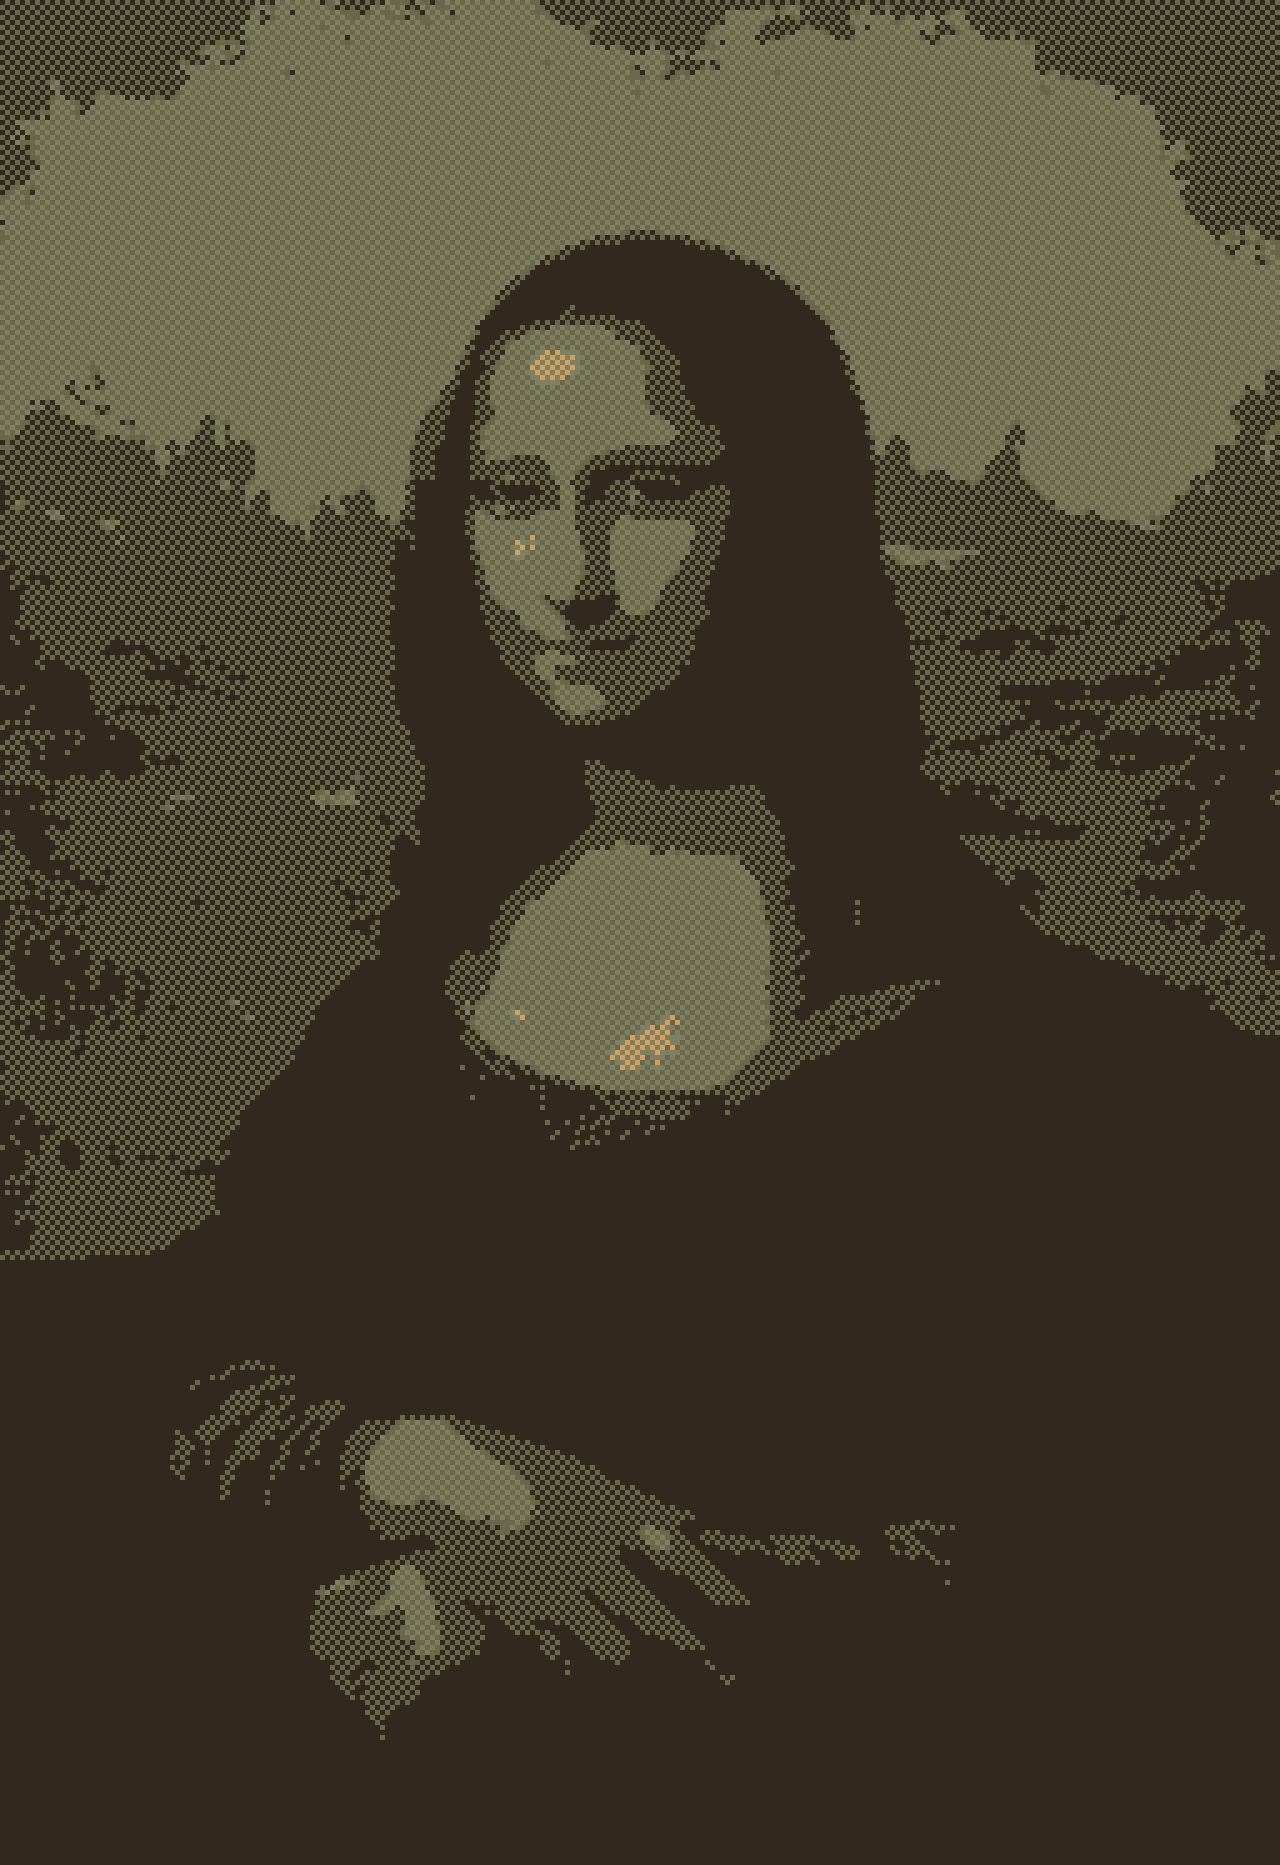
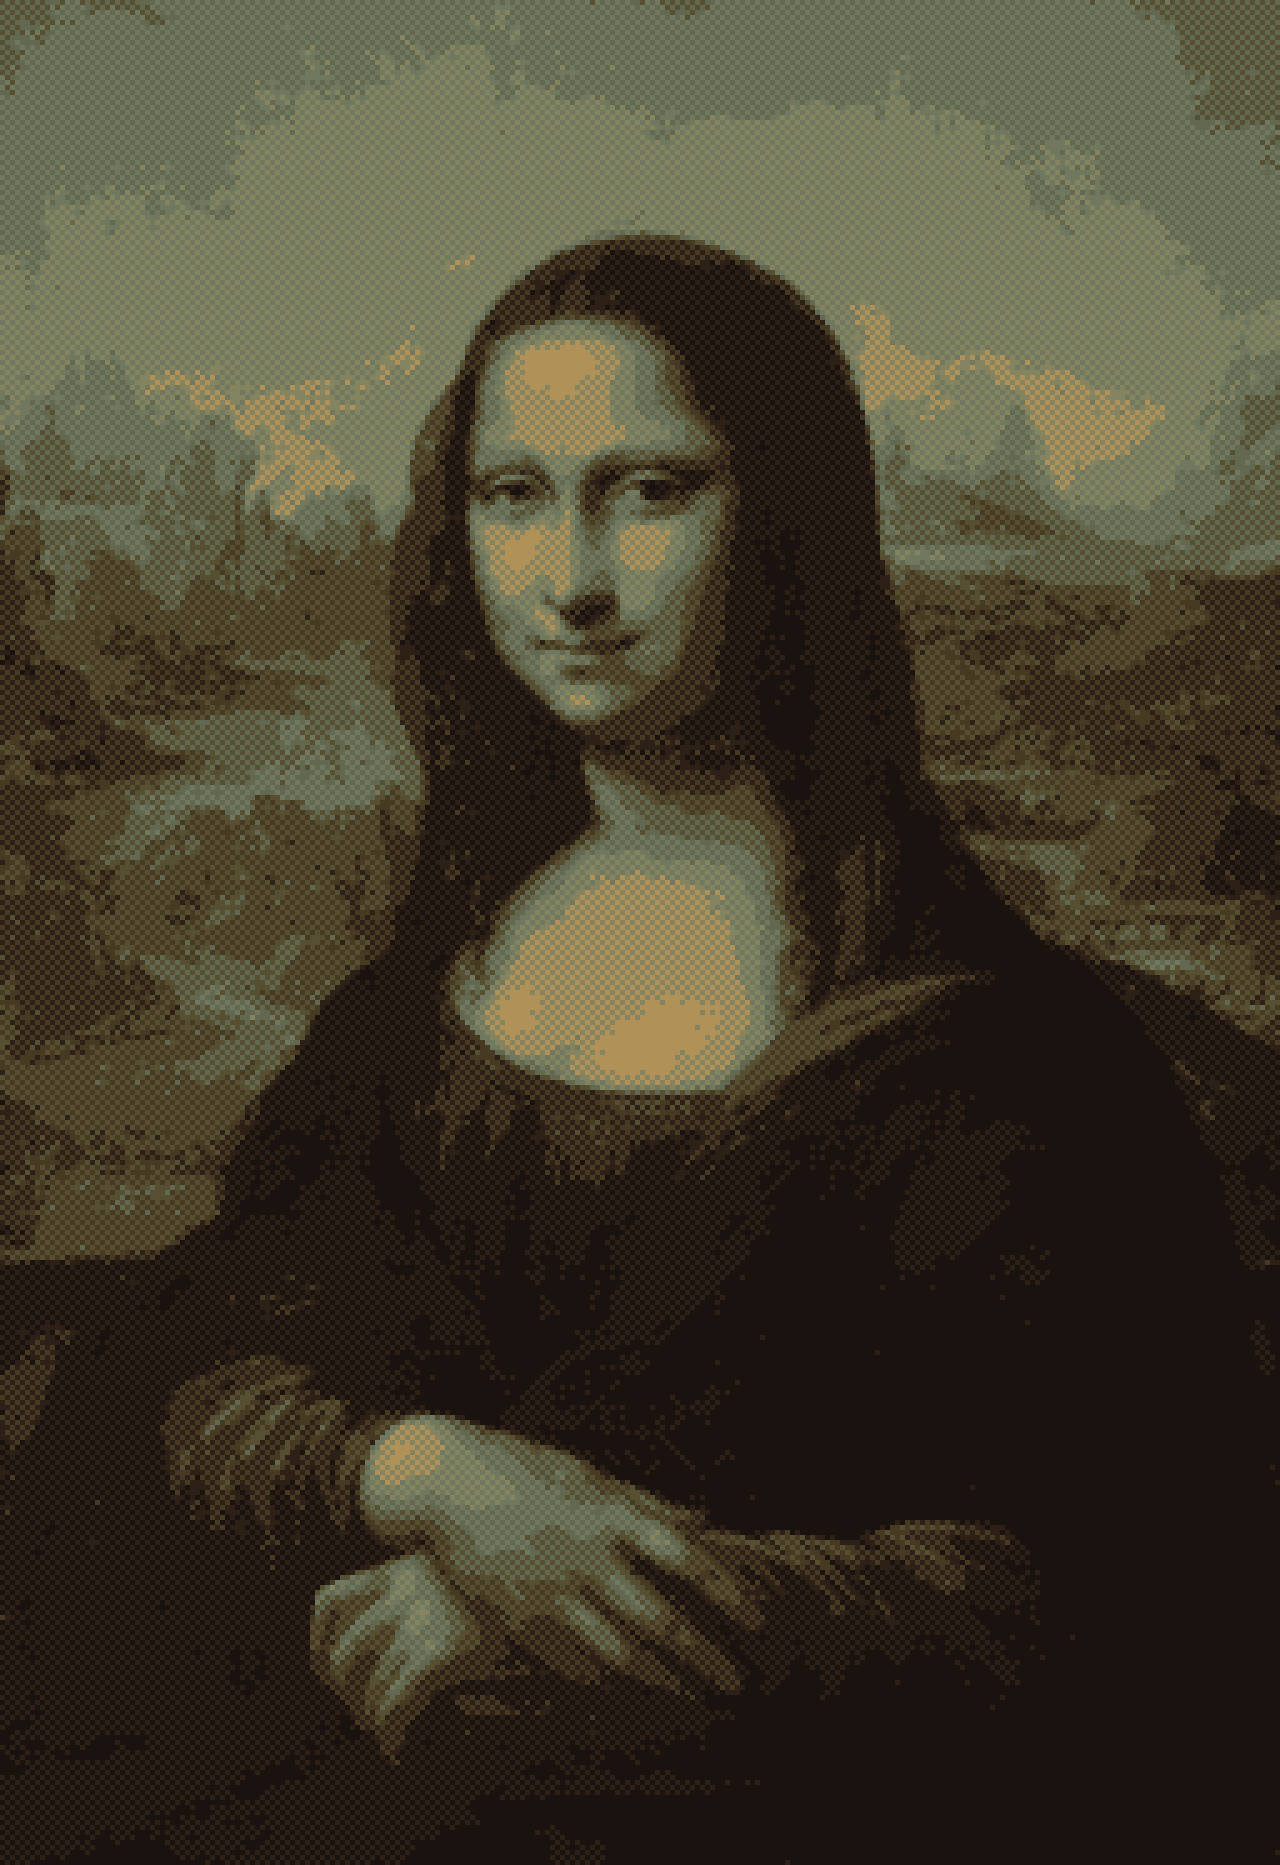
Working relative palette size

diff --git a/src/picture/PaletteDitheringConvertor.java b/src/picture/PaletteDitheringConvertor.java
@@ -14,6 +14,7 @@ public class PaletteDitheringConvertor {
 	private static int[] _colorPalette;
 	private static int _paletteSize;
 	private static int _shadeSteps;
+	private static int lMin, lMax;
 
 	/* CONSTRUCTORS */
 
@@ -37,6 +38,7 @@ public class PaletteDitheringConvertor {
 
 	private static BufferedImage executeConversion(int exportedWidth, int paletteSize) {
 		prepareVariables(exportedWidth, paletteSize);
+		createPalette();
 		getPixelShades();
 		colorsThePicture();
 
@@ -46,7 +48,6 @@ public class PaletteDitheringConvertor {
 	private static void prepareVariables(int exportedWidth, int paletteSize) {
 		_paletteSize = Math.clamp(paletteSize, 2, 254);
 		_colorPalette = new int[_paletteSize];
-		_shadeSteps = Math.round(255f / (float)(_paletteSize + 1));
 
 		_importedPicture = PixelArtConvertor.convertPicture(_importedPicture, exportedWidth);
 		_pictureHeight = _importedPicture.getHeight();
@@ -55,6 +56,26 @@ public class PaletteDitheringConvertor {
 		_exportedPicture = new BufferedImage(_pictureWidth, _pictureHeight, BufferedImage.TYPE_INT_ARGB);
 	}
 
+	private  static void createPalette() {
+		int pixel = _importedPicture.getRGB(0, 0);
+		lMin = pixelToLuminosity(pixel);
+		lMax = pixelToLuminosity(pixel);
+		
+		for(int x = 0; x < _pictureWidth; x++) {
+			for(int y = 0; y < _pictureHeight; y++) {
+				pixel = pixelToLuminosity(_importedPicture.getRGB(x, y));
+				if(lMin > pixel) {
+					lMin = pixel;
+				}
+				else if(lMax < pixel) {
+					lMax = pixel;
+				}
+			}
+		}
+		
+		_shadeSteps = Math.round(((float) lMax - (float) lMin) / (float)(_paletteSize + 1));
+	}
+	
 	private static void getPixelShades() {
 		for (int i = 0; i < _paletteSize; i++) {
 			_colorPalette[i] = extractLocationBasedColours(i, i + 1);
@@ -70,8 +91,8 @@ public class PaletteDitheringConvertor {
 			for (int y = 0; y < _pictureHeight; y++) {
 				pixel = _importedPicture.getRGB(x, y);
 
-				if (pixelToLuminosity(pixel) / _shadeSteps == targetOne
-						|| pixelToLuminosity(pixel) / _shadeSteps == targetTwo) {
+				if ((pixelToLuminosity(pixel) - lMin) / _shadeSteps == targetOne
+						|| (pixelToLuminosity(pixel) - lMin) / _shadeSteps == targetTwo) {
 					color[0] += (pixel >> 24) & 0xff;
 					color[1] += (pixel >> 16) & 0xff;
 					color[2] += (pixel >> 8) & 0xff;
@@ -91,7 +112,8 @@ public class PaletteDitheringConvertor {
 	private static int pixelToLuminosity(int pixel) {
 		int[] rgb = getPixelValues(pixel);
 
-		return (int) (.3f * rgb[0] + .59f * rgb[1] + .11f * rgb[2]);
+		//return (int) (.3f * rgb[0] + .59f * rgb[1] + .11f * rgb[2]);
+		return (int) ((1f / 3f) * rgb[0] + (1f / 3f) * rgb[1] + (1f / 3f) * rgb[2]);
 	}
 
 	private static int[] getPixelValues(int pixel) {
@@ -113,7 +135,7 @@ public class PaletteDitheringConvertor {
 
 	private static void findAppropriateColor(int x, int y) {
 		int pixel = pixelToLuminosity(_importedPicture.getRGB(x, y));
-		int value = pixel / _shadeSteps;
+		int value = (pixel - lMin) / _shadeSteps;
 
 		int i = 0;
 		while (i != value && i < _paletteSize) {

diff --git a/src/main/Main.java b/src/main/Main.java
@@ -18,10 +18,10 @@ public class Main {
 		BufferedImage colouredDithering;
 		BufferedImage joconde = PictureImporter.importPicture("pictures/joconde.png");
 
-		colouredDithering = PaletteDitheringConvertor.convert(joconde, 256, 4);
-		PictureExporter.exportPicture(colouredDithering, "pictures/jocondePalette.png", 5);
-		
-		colouredDithering = AlternativePaletteDithering.convert(joconde, 256, 4);
+		colouredDithering = PaletteDitheringConvertor.convert(joconde, 256, 8);
 		PictureExporter.exportPicture(colouredDithering, "pictures/jocondeAlternative.png", 5);
+		
+		//colouredDithering = AlternativePaletteDithering.convert(joconde, 256, 4);
+		//PictureExporter.exportPicture(colouredDithering, "pictures/jocondeAlternative.png", 5);
 	}
 }
